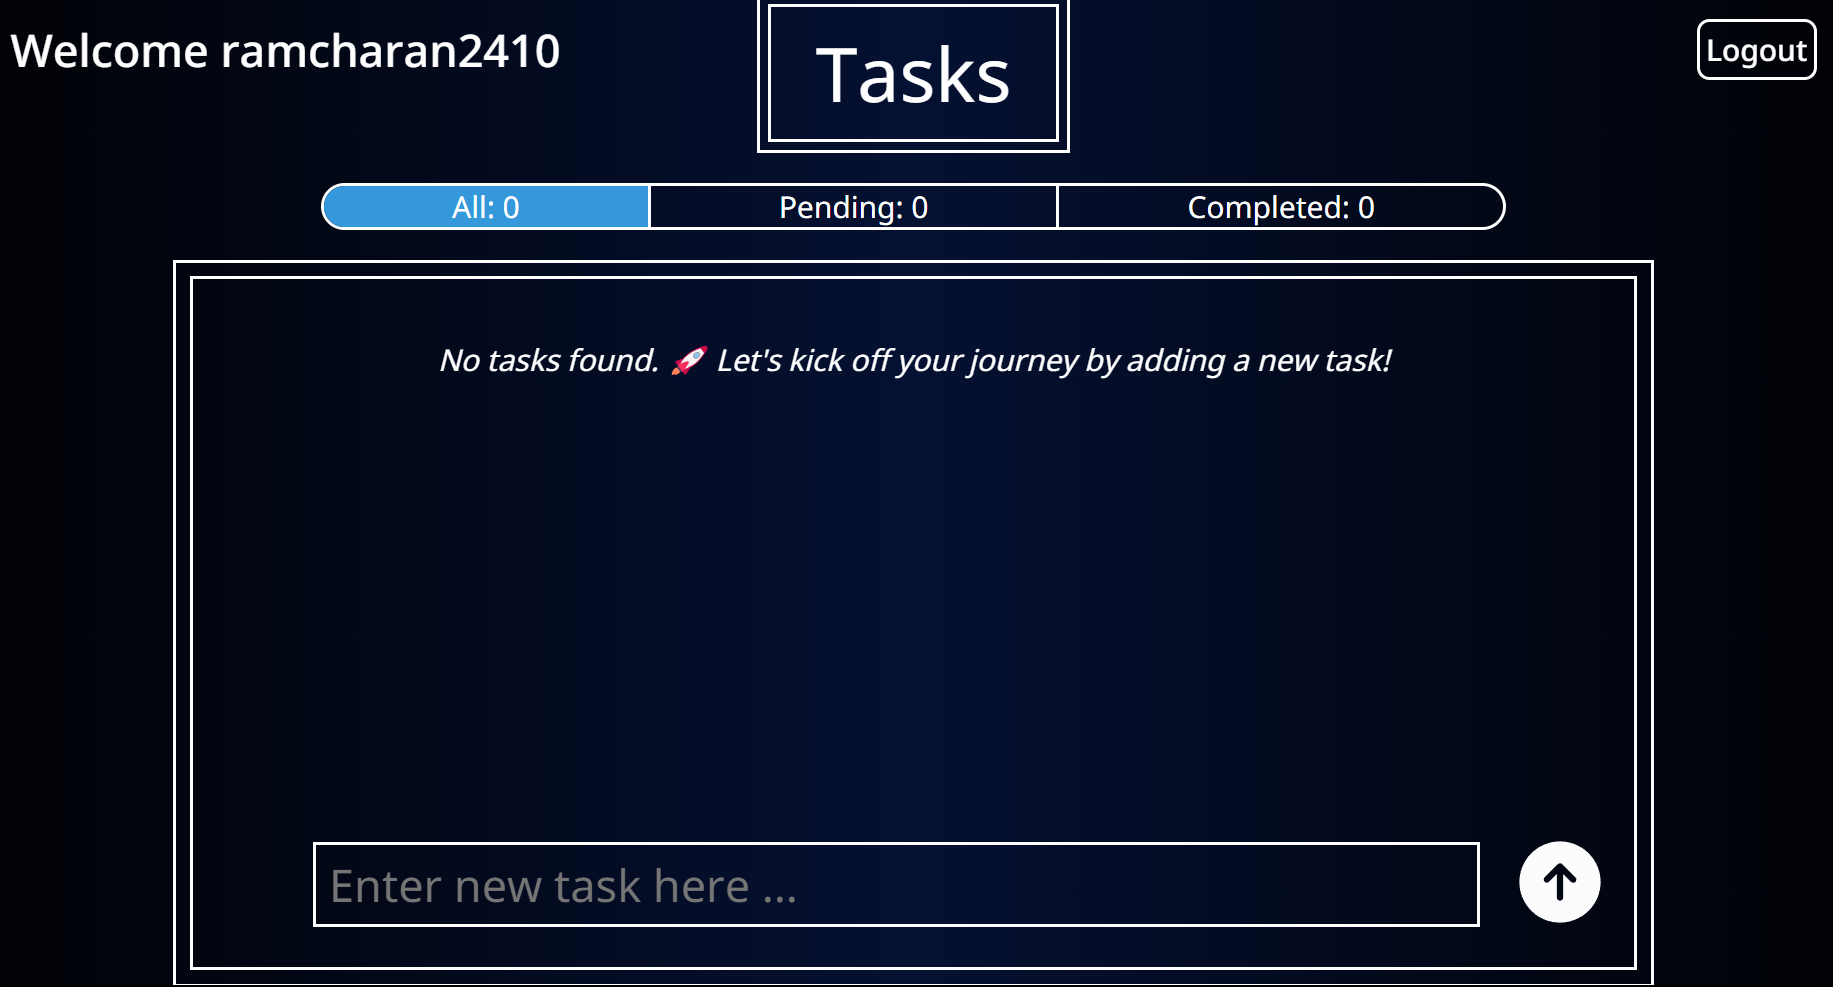
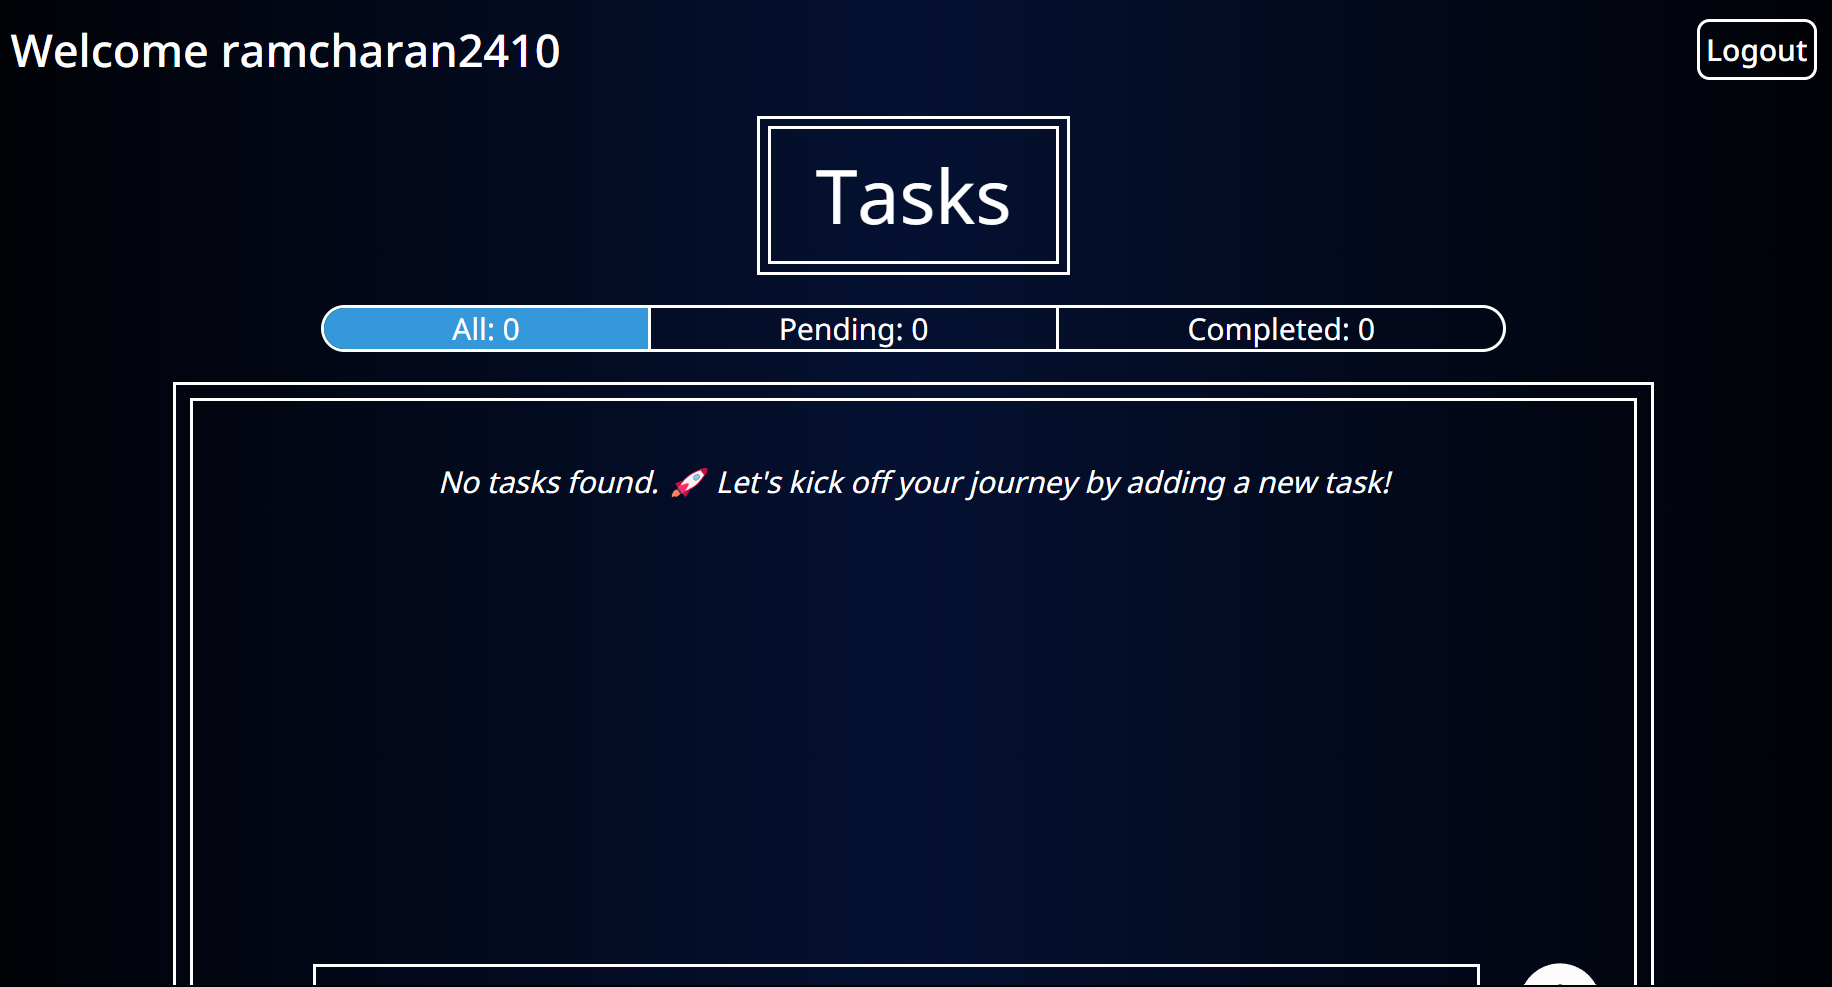
final commit

diff --git a/todo-frontend/src/App.css b/todo-frontend/src/App.css
@@ -182,34 +182,44 @@ html{
     text-align: center;
     margin-bottom: .2em;
 }
-
-@media screen and (max-width: 348px) {
-    .login-form input::placeholder {
-        font-size: .8em;
+@media (max-width:1464px){
+    .login-form form{
+        padding-left: .2em;
+        padding-right:.5em;
+    }
+    .login-form label {
+        width: fit-content;
+        text-align: center;
+    }
+    .login-form input{
+        display: block;
+        width: 80%;
+        margin: 0 auto;
     }
 }
+@media (max-width: 940px) {
+    .login-header{
+        display: flex;
+        flex-direction: column;
+    }
+    .login-form-container {
+        width: 90%;
+    }
 
-@media screen and (max-width: 416px) {
+    .login-form label {
+        width: fit-content;
+        text-align: center;
+    }
+
     .login-form input {
         width: 100%;
+        margin-left: 0;
     }
 }
 
-@media screen and (max-width: 768px) {
-    .login-header {
-        flex-direction: column;
-        align-items: center;
-    }
-
-    .login-form {
-        width: 70%;
-    }
-}
-
-@media screen and (max-width:818px) {
-    .login-form input {
-        display: block;
-        margin-top: .2em;
+@media (max-width: 480px) {
+    .login{
+        min-height: 110vh;
     }
 }
 
@@ -345,33 +355,48 @@ html{
     margin-bottom: .2em;
 }
 
-@media screen and (max-width: 348px) {
-    .signup-form input::placeholder {
-        font-size: .8em;
-    }
-}
-
-@media screen and (max-width: 416px) {
-    .signup-form input {
-        width: 100%;
-    }
-}
-
-@media screen and (max-width: 768px) {
-    .signup-navbar {
-        flex-direction: column;
-        align-items: center;
+@media (max-width:1464px) {
+    .signup-form form {
+        padding-left: .2em;
+        padding-right: .5em;
     }
 
-    .signup-form {
-        width: 70%;
+    .signup-form label {
+        width: fit-content;
+        text-align: center;
     }
-}
 
-@media screen and (max-width:818px) {
     .signup-form input {
         display: block;
-        margin-top: .2em;
+        width: 80%;
+        margin: 0 auto;
+    }
+}
+
+@media (max-width: 940px) {
+    .signup-header {
+        display: flex;
+        flex-direction: column;
+    }
+
+    .signup-form-container {
+        width: 90%;
+    }
+
+    .signup-form label {
+        width: fit-content;
+        text-align: center;
+    }
+
+    .signup-form input {
+        width: 100%;
+        margin-left: 0;
+    }
+}
+
+@media (max-width: 480px) {
+    html{
+        font-size: 20px;
     }
 }
 
@@ -396,8 +421,6 @@ html{
     background-color: inherit;
     margin-bottom: .3em;
     padding: .5em;
-    position: sticky;
-    top: 0;
 }
 
 .header-title {

diff --git a/README.md b/README.md
@@ -12,7 +12,7 @@
 
 ## Brief Description
 
-The Todo Website is a task management application designed to help users organize their daily activities and keep track of their tasks efficiently. Users can create, update, and delete tasks, mark tasks as completed, and filter tasks based on their status (pending or completed). The website provides a user-friendly interface with features such as task categorization, dynamic task creation and editing, and responsive design. It aims to enhance productivity by allowing users to prioritize their tasks and manage them effectively.
+The Todo Website is a task management application designed to help users organize their daily activities and keep track of their tasks efficiently. Users can create, update, and delete tasks, mark tasks as completed, and filter tasks based on their status (pending or completed). The website provides a user-friendly interface with features such as task categorization, dynamic task creation and editing. It aims to enhance productivity by allowing users to prioritize their tasks and manage them effectively.
 
 ## Deployment
 
@@ -78,7 +78,7 @@ Refer to the below given respective documentations for the languages used to bui
 
 ### All Tasks
 
-![All Tasks](/todo-frontend/src/imgs/05-task%20list%20page.png)
+![All Tasks](/todo-frontend/src/imgs/05-all%20tasks.png)
 
 ### Pending Tasks
 
